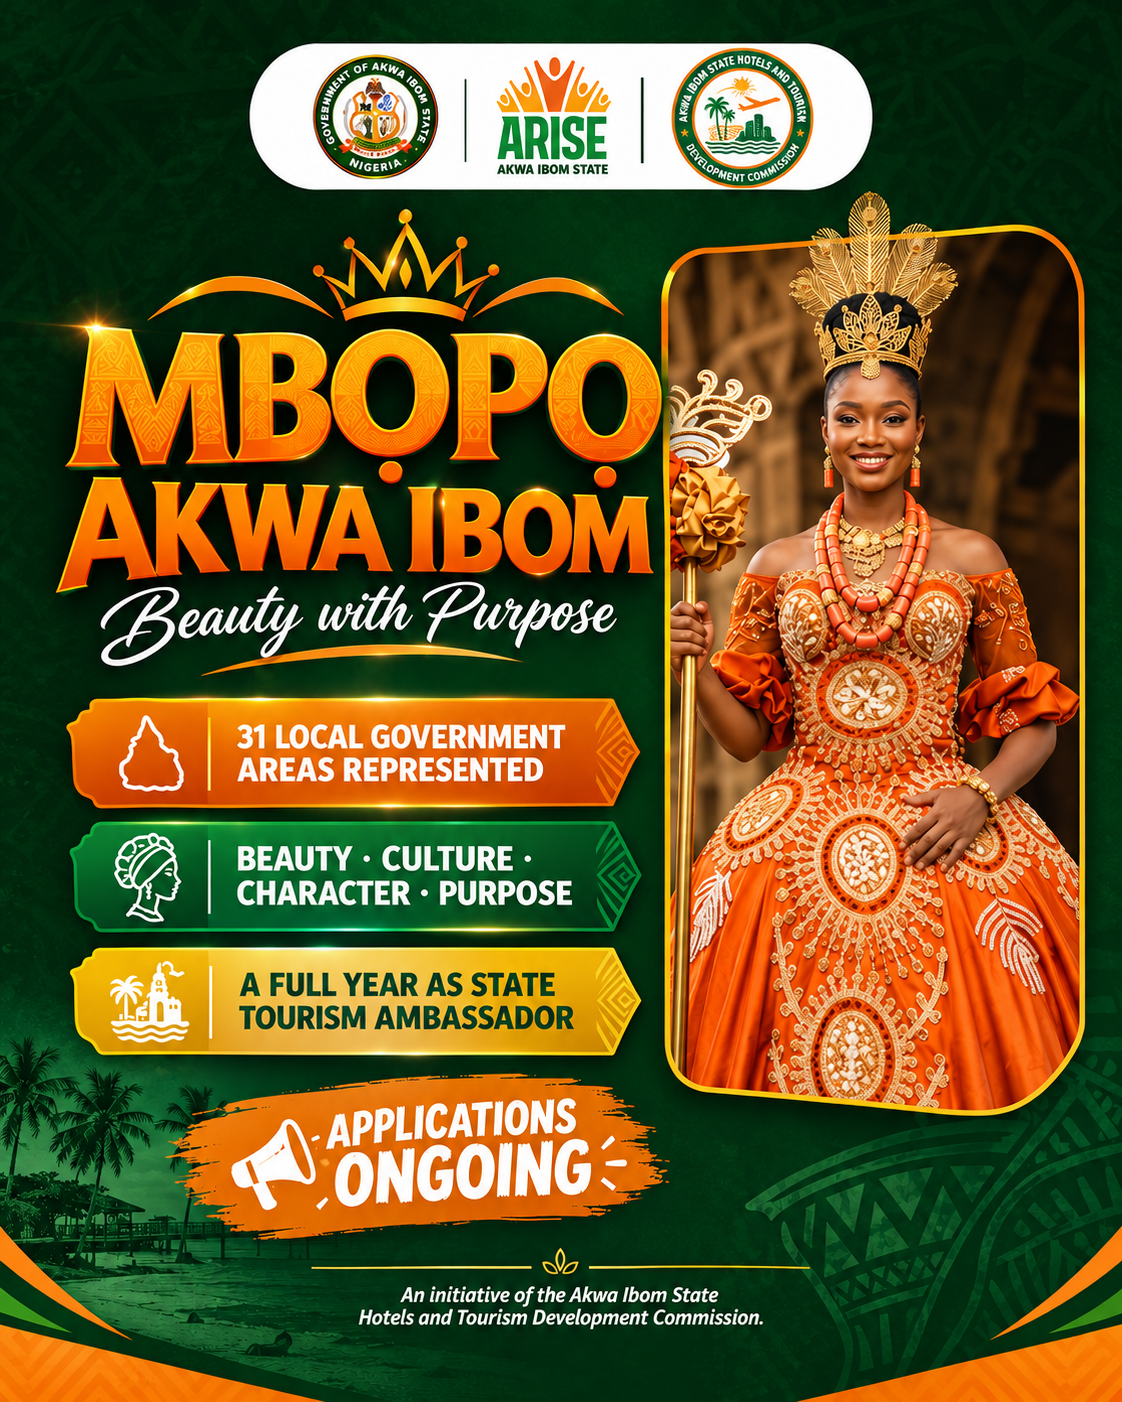
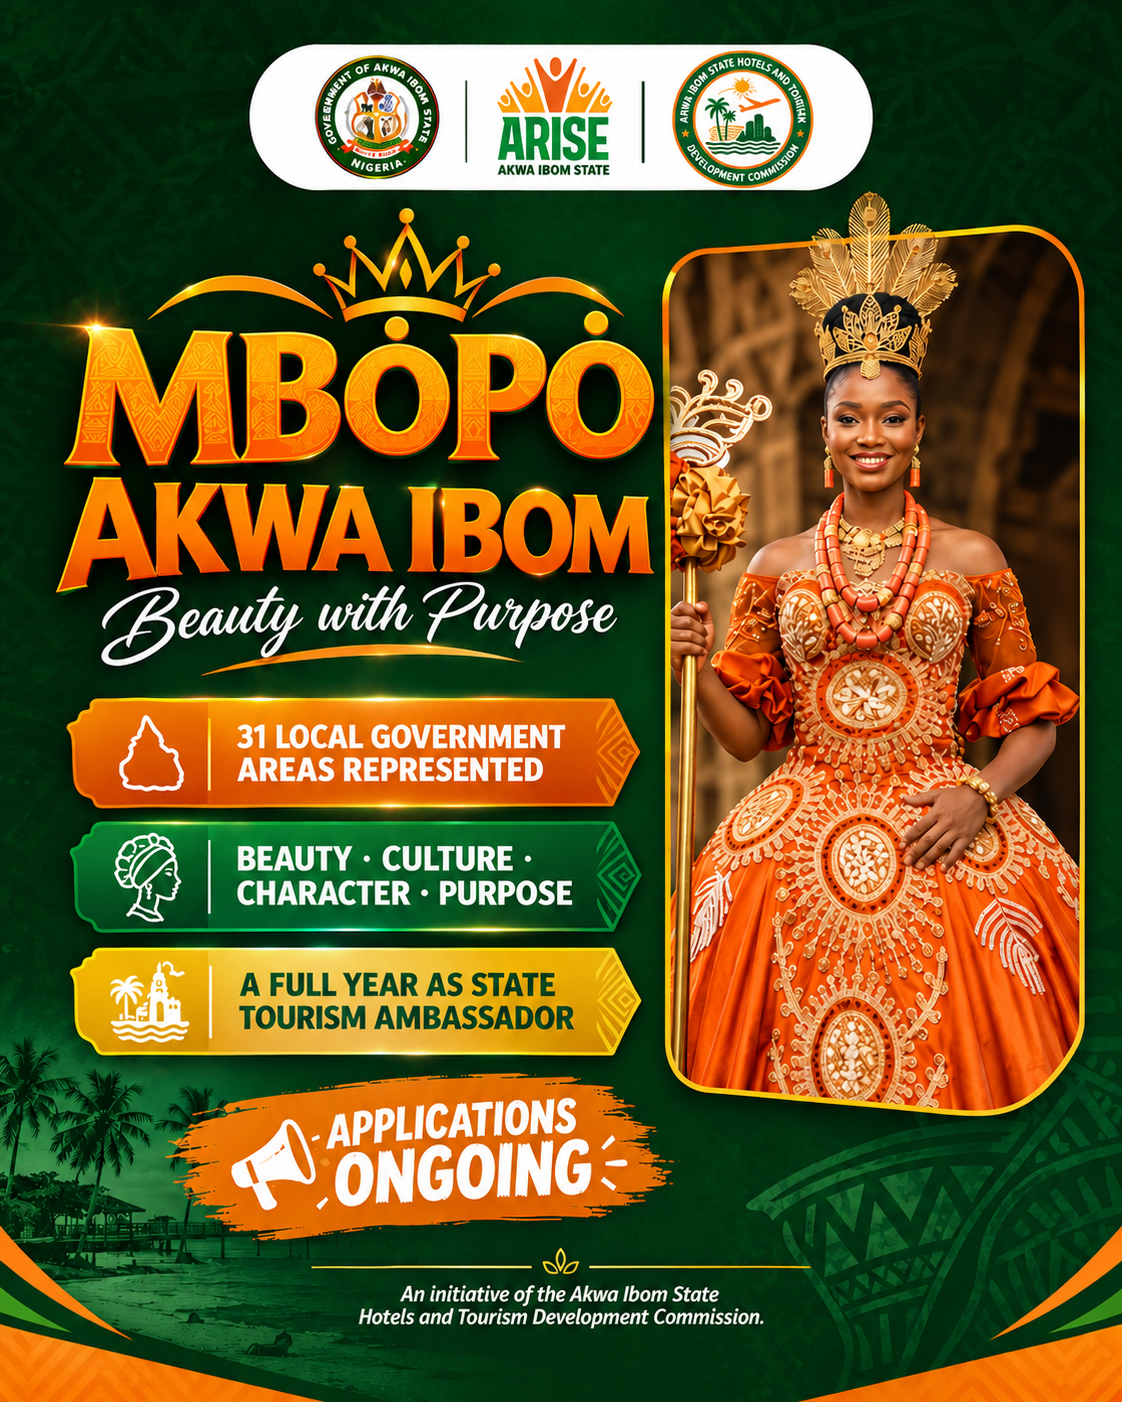
feat: update images and enhance cultural content across components

diff --git a/src/shared/components/Navbar.tsx b/src/shared/components/Navbar.tsx
@@ -33,8 +33,14 @@ const navItems: NavItemWithDropdown[] = [
     items: [
       { name: "Tour Operators", href: "/tourism/tour-operators" },
       { name: "Group Tours", href: "/tourism/group-tours" },
-      { name: "Prestigious Destinations", href: "/tourism/prestigious-destinations" },
-      { name: "Restaurants & Fine Dining", href: "/tourism/restaurants-fine-dining" },
+      {
+        name: "Prestigious Destinations",
+        href: "/tourism/prestigious-destinations",
+      },
+      {
+        name: "Restaurants & Fine Dining",
+        href: "/tourism/restaurants-fine-dining",
+      },
     ],
   },
   {
@@ -48,9 +54,15 @@ const navItems: NavItemWithDropdown[] = [
   {
     name: "Commission",
     items: [
-      { name: "About the Commission", href: "/about-akwa-ibom-state-tourism-board" },
+      {
+        name: "About the Commission",
+        href: "/about-akwa-ibom-state-tourism-board",
+      },
       { name: "Conferences & Events", href: "/the-board/conferences-events" },
-      { name: "Organizational Structure", href: "/the-board/organizational-structure" },
+      {
+        name: "Organizational Structure",
+        href: "/the-board/organizational-structure",
+      },
     ],
   },
 ];
@@ -66,7 +78,9 @@ const Navbar = () => {
             <LogoImg src={logo} alt="Akwa Ibom Tourism" />
             <BrandText>
               <BrandTitle>Akwa Ibom State</BrandTitle>
-              <BrandSubtitle>Hotels & Tourism Development Commission</BrandSubtitle>
+              <BrandSubtitle>
+                Hotels & Tourism Development Commission
+              </BrandSubtitle>
             </BrandText>
           </BrandLink>
 
@@ -90,7 +104,7 @@ const Navbar = () => {
               target="_blank"
               rel="noopener noreferrer"
             >
-              Mbopo Akwa Ibom
+              Mbobpo Akwa Ibom
             </NavCtaButtonOutline>
           </DesktopLinks>
 
@@ -110,11 +124,14 @@ const Navbar = () => {
               target="_blank"
               rel="noopener noreferrer"
             >
-              Mbopo
+              Mbobpo
             </CompactCtaButtonOutline>
           </CompactCtaGroup>
 
-          <MenuButton onClick={() => setIsMenuOpen(!isMenuOpen)} aria-label="Toggle menu">
+          <MenuButton
+            onClick={() => setIsMenuOpen(!isMenuOpen)}
+            aria-label="Toggle menu"
+          >
             {isMenuOpen ? <X size={24} /> : <Menu size={24} />}
           </MenuButton>
         </Row>
@@ -126,9 +143,17 @@ const Navbar = () => {
                 Home
               </MobileNavItemLink>
               {navItems.map((item) => (
-                <NavDropdown key={item.name} item={item} mobile onItemClick={() => setIsMenuOpen(false)} />
+                <NavDropdown
+                  key={item.name}
+                  item={item}
+                  mobile
+                  onItemClick={() => setIsMenuOpen(false)}
+                />
               ))}
-              <MobileNavItemLink to="/#contact" onClick={() => setIsMenuOpen(false)}>
+              <MobileNavItemLink
+                to="/#contact"
+                onClick={() => setIsMenuOpen(false)}
+              >
                 Contact
               </MobileNavItemLink>
             </MobileLinks>

diff --git a/src/features/home/components/CurrentEvents.tsx b/src/features/home/components/CurrentEvents.tsx
@@ -1,11 +1,8 @@
 import { ArrowRight } from "lucide-react";
 import { Button } from "@/shared/ui";
 import { Container, GlowWrap } from "@/shared/components";
-import hotelImg from "@/assets/hotel.jpg";
-import cultureImg from "@/assets/culture.jpg";
+import mbobpoImg from "@/assets/mbopo-group.jpeg"
 import leMeridienImg from "@/assets/le-meridien.jpeg";
-import ibenoImg from "@/assets/ibeno-beach.webp";
-import fourPointsImg from "@/assets/four-points.jpg";
 import {
   Section,
   Heading,
@@ -47,18 +44,18 @@ const currentEvents: CurrentEvent[] = [
     title: "Register Your Hospitality Establishment",
     description:
       "Hotels, guest houses, and other hospitality businesses can register with the Commission for licensing and promotion.",
-    image: hotelImg,
+    image: leMeridienImg,
     ctaLabel: "Register Now",
     ctaLink: REGISTER_ESTABLISHMENT_URL,
     glow: true,
   },
   {
     id: "mbopo-akwa-ibom",
-    title: "Mbopo Akwa Ibom Pageant",
+    title: "Mbobpo Akwa Ibom Pageant",
     description:
-      "Celebrate culture and heritage — register to represent Akwa Ibom at the Mbopo Akwa Ibom pageant.",
-    image: cultureImg,
-    ctaLabel: "Register for Mbopo",
+      "Celebrate culture and heritage — register to represent Akwa Ibom at the Mbobpo Akwa Ibom pageant.",
+    image: mbobpoImg,
+    ctaLabel: "Register for Mbobpo",
     ctaLink: MBOPO_AKWA_IBOM_URL,
   },
   // {
@@ -93,8 +90,8 @@ const CurrentEvents = () => {
           <Eyebrow>Get Involved</Eyebrow>
           <Title>Current Events</Title>
           <Lede>
-            From cultural celebrations to community initiatives — here&apos;s what&apos;s happening across Akwa
-            Ibom State right now.
+            From cultural celebrations to community initiatives — here&apos;s
+            what&apos;s happening across Akwa Ibom State right now.
           </Lede>
         </Heading>
 
@@ -108,7 +105,11 @@ const CurrentEvents = () => {
                 <CardTitle>{event.title}</CardTitle>
                 <Description>{event.description}</Description>
                 {event.ctaLabel ? (
-                  <a href={event.ctaLink} target="_blank" rel="noopener noreferrer">
+                  <a
+                    href={event.ctaLink}
+                    target="_blank"
+                    rel="noopener noreferrer"
+                  >
                     {event.glow ? (
                       <GlowWrap>
                         <Button variant="secondary">{event.ctaLabel}</Button>

diff --git a/src/features/news-details/api/newsData.ts b/src/features/news-details/api/newsData.ts
@@ -1,7 +1,7 @@
 import heroBeach from "@/assets/hero-beach.jpg";
-import culture from "@/assets/culture.jpg";
 import hotel from "@/assets/hotel.jpg";
 import nature from "@/assets/nature.jpg";
+import culturalMenImg from "@/assets/men-dance.png";
 import type { NewsItem } from "../types";
 
 // Static for now; swap the body of this module for a real API call when
@@ -61,7 +61,7 @@ The Governor commended the investors for their commitment to sustainable develop
     id: "cultural-festival-success",
     title: "Ibom Cultural Festival Attracts 50,000 Visitors",
     description: "The annual celebration of Akwa Ibom heritage drew record attendance from across Africa.",
-    image: culture,
+    image: culturalMenImg,
     fullContent: `The 2024 edition of the Ibom Cultural Festival has been declared the most successful in its history, attracting over 50,000 visitors from Nigeria and across Africa over its seven-day duration.
 
 The festival, organized by the Akwa Ibom State Hotels and Tourism Development Commission in partnership with the Ministry of Culture and Tourism, showcased the rich cultural heritage of the state through various activities:

diff --git a/src/features/home/components/Hero.tsx b/src/features/home/components/Hero.tsx
@@ -94,7 +94,7 @@ const heroSlides: HeroSlide[] = [
   },
   {
     image: mbopoFlier,
-    title: "Mbopo Akwa Ibom: Beauty with Purpose",
+    title: "Mbobpo Akwa Ibom: Beauty with Purpose",
     subtitle:
       "Applications are open for young women across all 31 local government areas to become Akwa Ibom's next State Tourism Ambassador.",
     ctaLabel: "Apply Now",
@@ -157,7 +157,7 @@ const Hero = () => {
               size={16}
               fill={theme.colors.highlightMuted}
             />
-            <EyebrowText>Nigeria&apos;s Hidden Gem</EyebrowText>
+            <EyebrowText>Akwa Ibom: Nigeria&apos;s Hidden Gem</EyebrowText>
           </Eyebrow>
 
           <Title key={`title-${current}`}>{heroSlides[current].title}</Title>

diff --git a/src/features/home/components/Destinations.tsx b/src/features/home/components/Destinations.tsx
@@ -4,6 +4,7 @@ import natureImg from "@/assets/nature.jpg";
 import cultureImg from "@/assets/culture.jpg";
 import ibenoImg from "@/assets/ibeno-beach.webp";
 import ibomStadiumImg from "@/assets/ibom-stadium.webp";
+import amalgamationHouse from "@/assets/amalgamate.jpeg"
 import {
   Section,
   Heading,
@@ -37,7 +38,7 @@ const destinations = [
     icon: Camera,
     title: "Cultural Heritage Sites",
     description: "Explore ancient traditions, art, and the vibrant culture of the Ibibio people",
-    image: cultureImg,
+    image: amalgamationHouse,
   },
   {
     icon: MapPin,

diff --git a/src/features/home/components/Culture.tsx b/src/features/home/components/Culture.tsx
@@ -1,6 +1,6 @@
 import { Music, Palette, Calendar, Users } from "lucide-react";
 import { Container } from "@/shared/components";
-import cultureImg from "@/assets/culture.jpg";
+import culturalMenImg from "@/assets/men-dance.png";
 import {
   Section,
   Grid,
@@ -45,7 +45,7 @@ const Culture = () => {
       <Container>
         <Grid>
           <ImageFrame>
-            <Image src={cultureImg} alt="Cultural performance" />
+            <Image src={culturalMenImg} alt="Cultural performance" />
             <ImageScrim />
           </ImageFrame>
 
